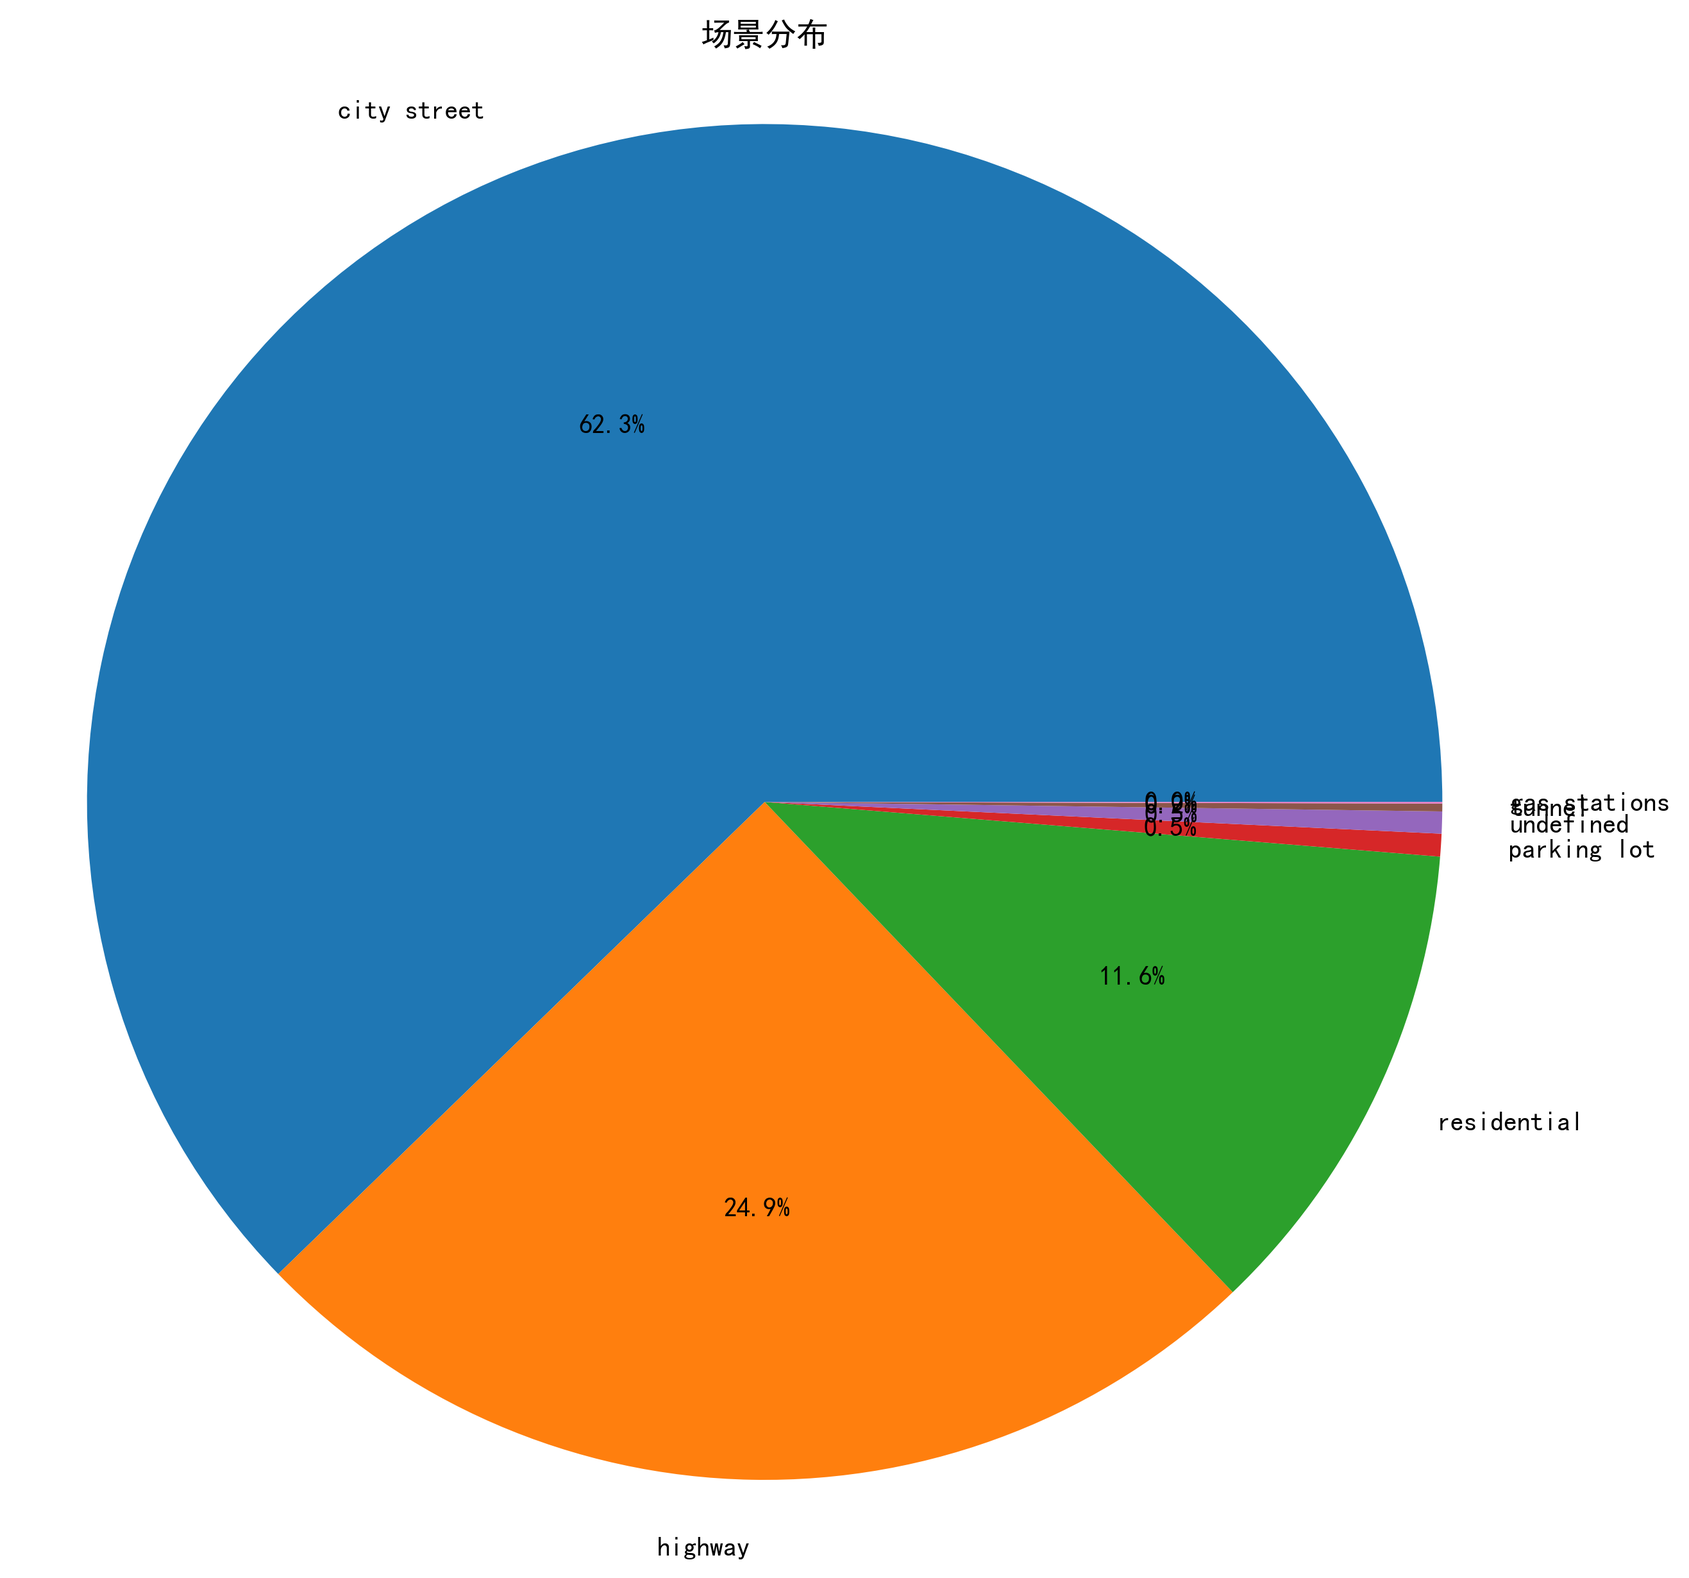
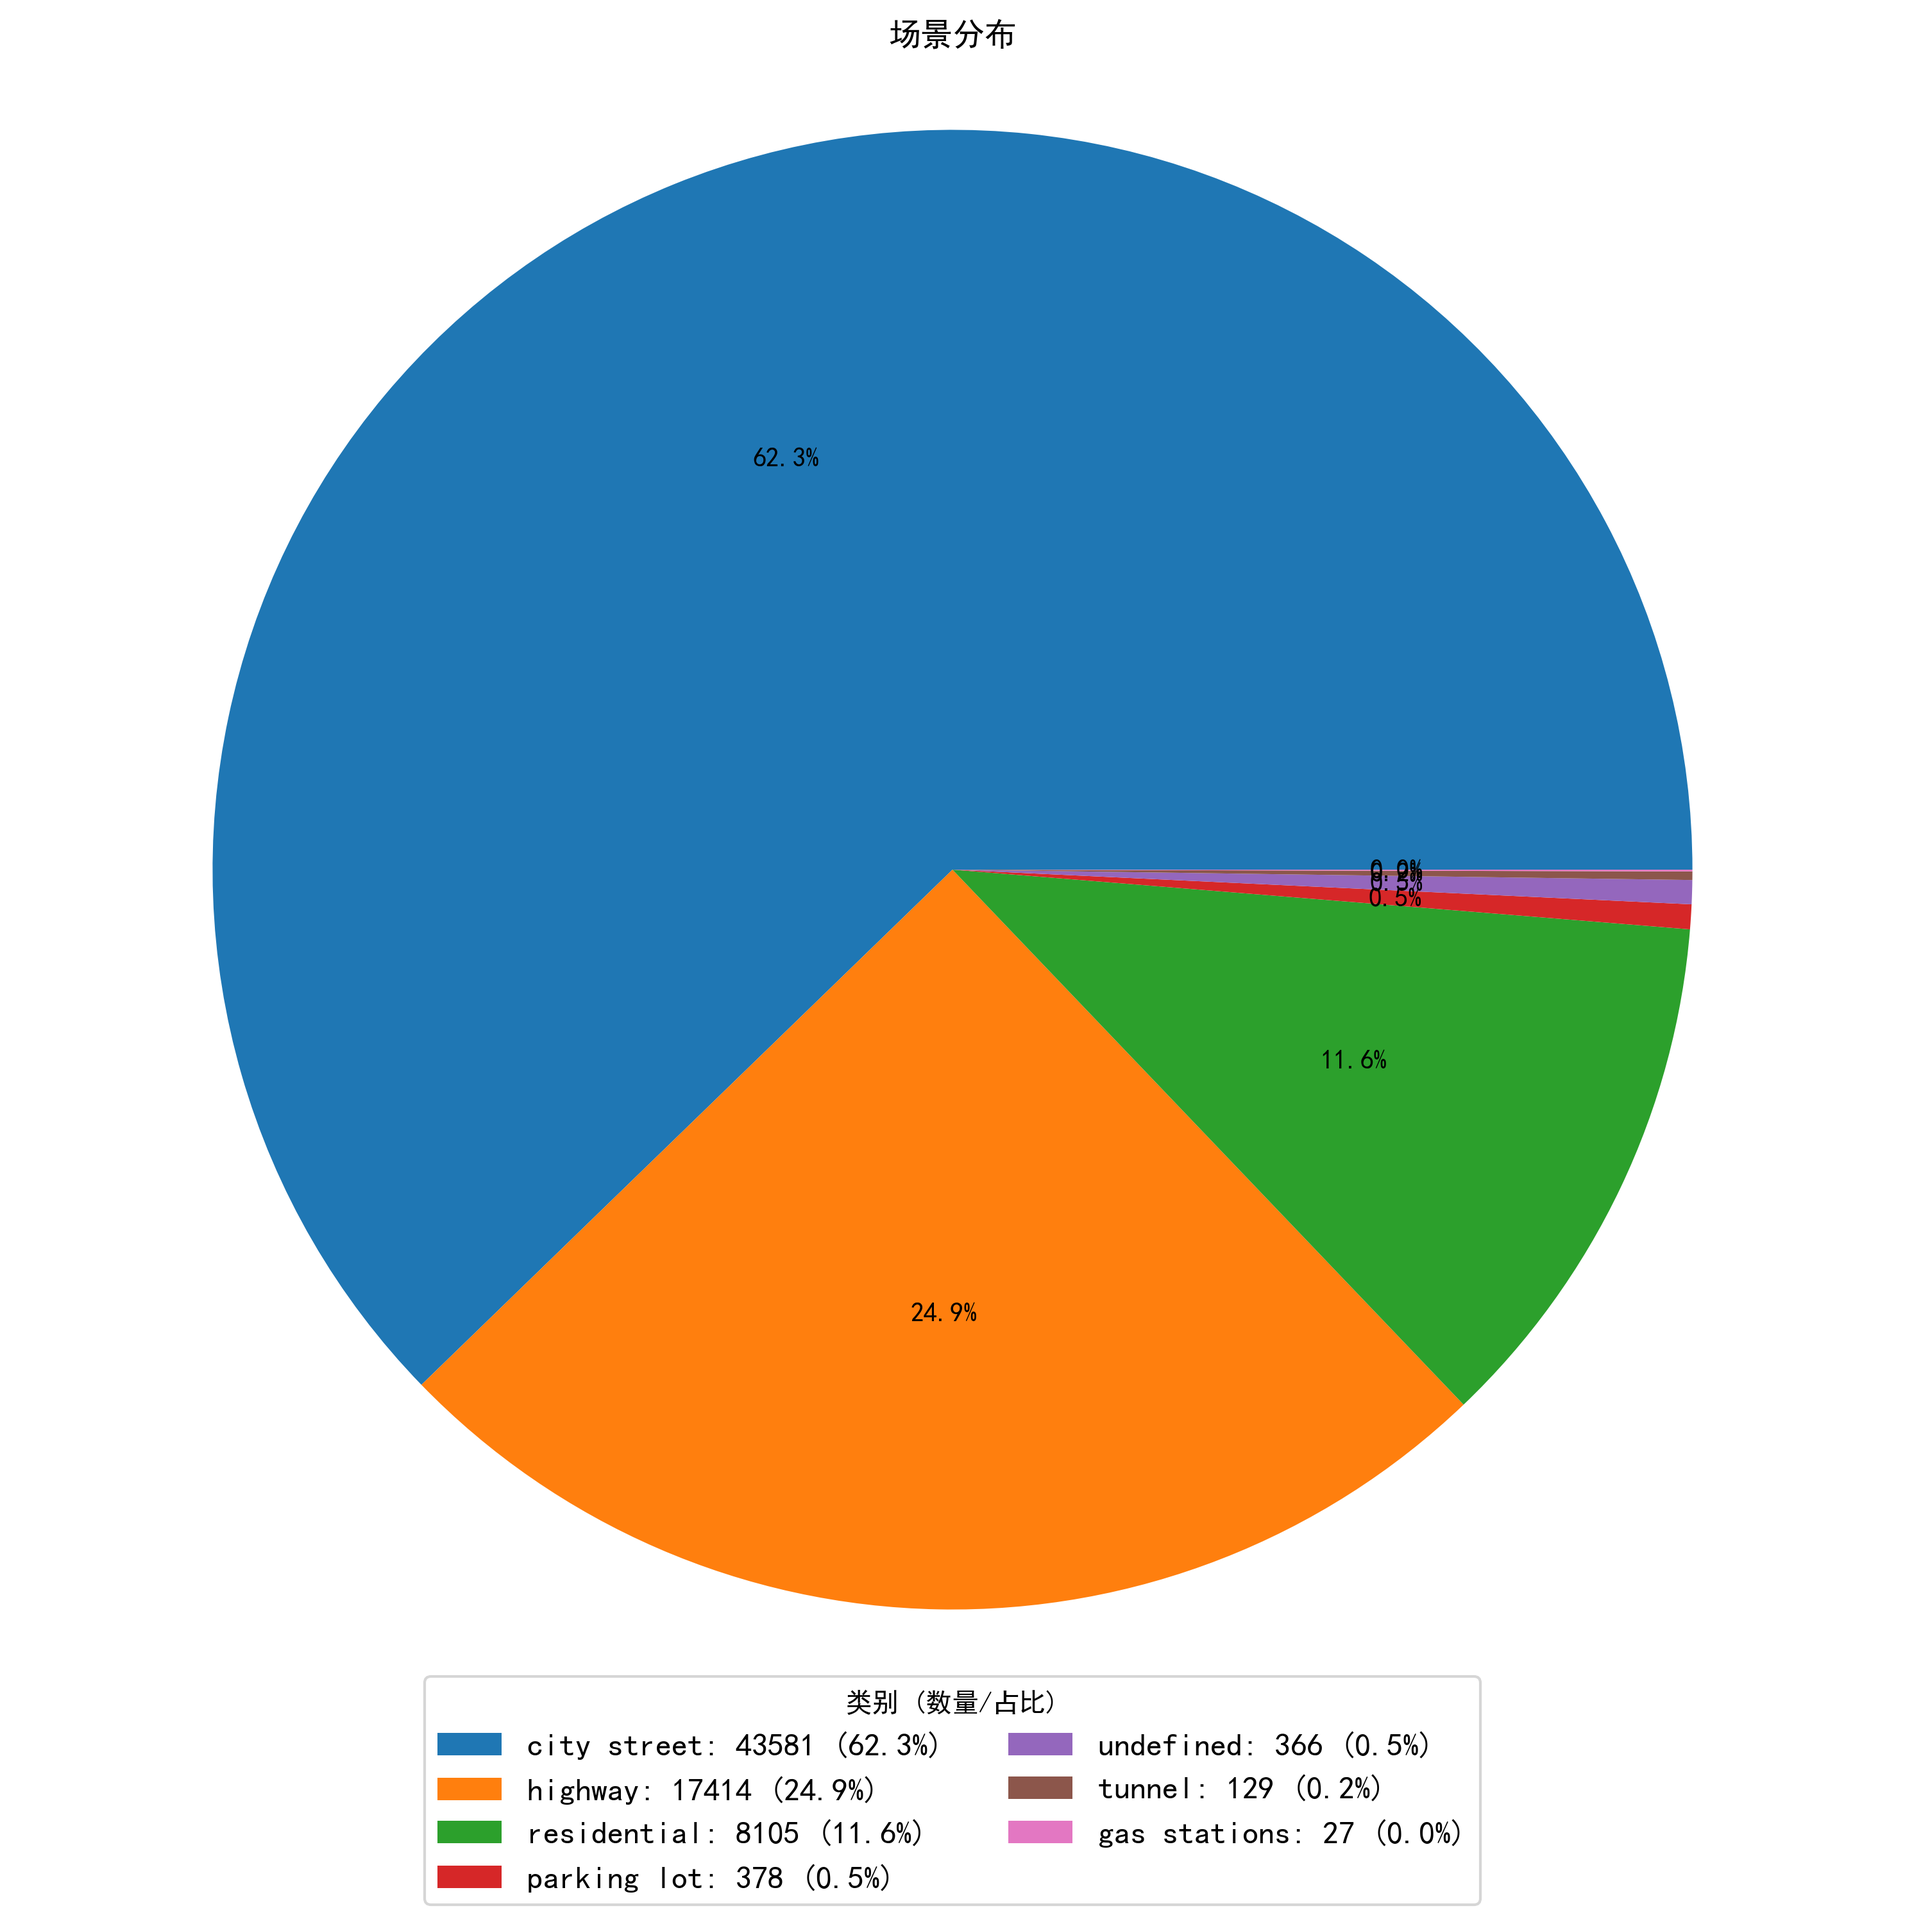
优化可视化标签

diff --git a/scripts/visualize_analysis.py b/scripts/visualize_analysis.py
@@ -45,13 +45,26 @@ def plot_weather_distribution(data: dict, output_dir: Path):
     plt.close()
 
 def plot_scene_distribution(data: dict, output_dir: Path):
-    """绘制场景分布饼图"""
+    """绘制场景分布饼图（标签和数值放到图例中）"""
     scene = data['attributes']['scene']['distribution']
+    labels = list(scene.keys())
+    sizes = list(scene.values())
+    total = sum(sizes)
     
+    # 只在扇区显示百分比
+    def autopct(pct):
+        return '{:.1f}%'.format(pct) if pct > 0 else ''
+
     plt.figure(figsize=(10, 10))
-    plt.pie(scene.values(), labels=scene.keys(), autopct='%1.1f%%')
+    wedges, texts, autotexts = plt.pie(sizes, labels=None, autopct=autopct)
     plt.title('场景分布')
     plt.axis('equal')
+    
+    # 构造图例内容：类别名+数量
+    legend_labels = [f"{label}: {count} ({count/total:.1%})" for label, count in zip(labels, sizes)]
+    plt.legend(wedges, legend_labels, title="类别 (数量/占比)", loc="lower center", bbox_to_anchor=(0.5, -0.15), ncol=2, fontsize=12)
+    
+    plt.tight_layout()
     plt.savefig(output_dir / 'scene_distribution.png', dpi=300, bbox_inches='tight')
     plt.close()
 
